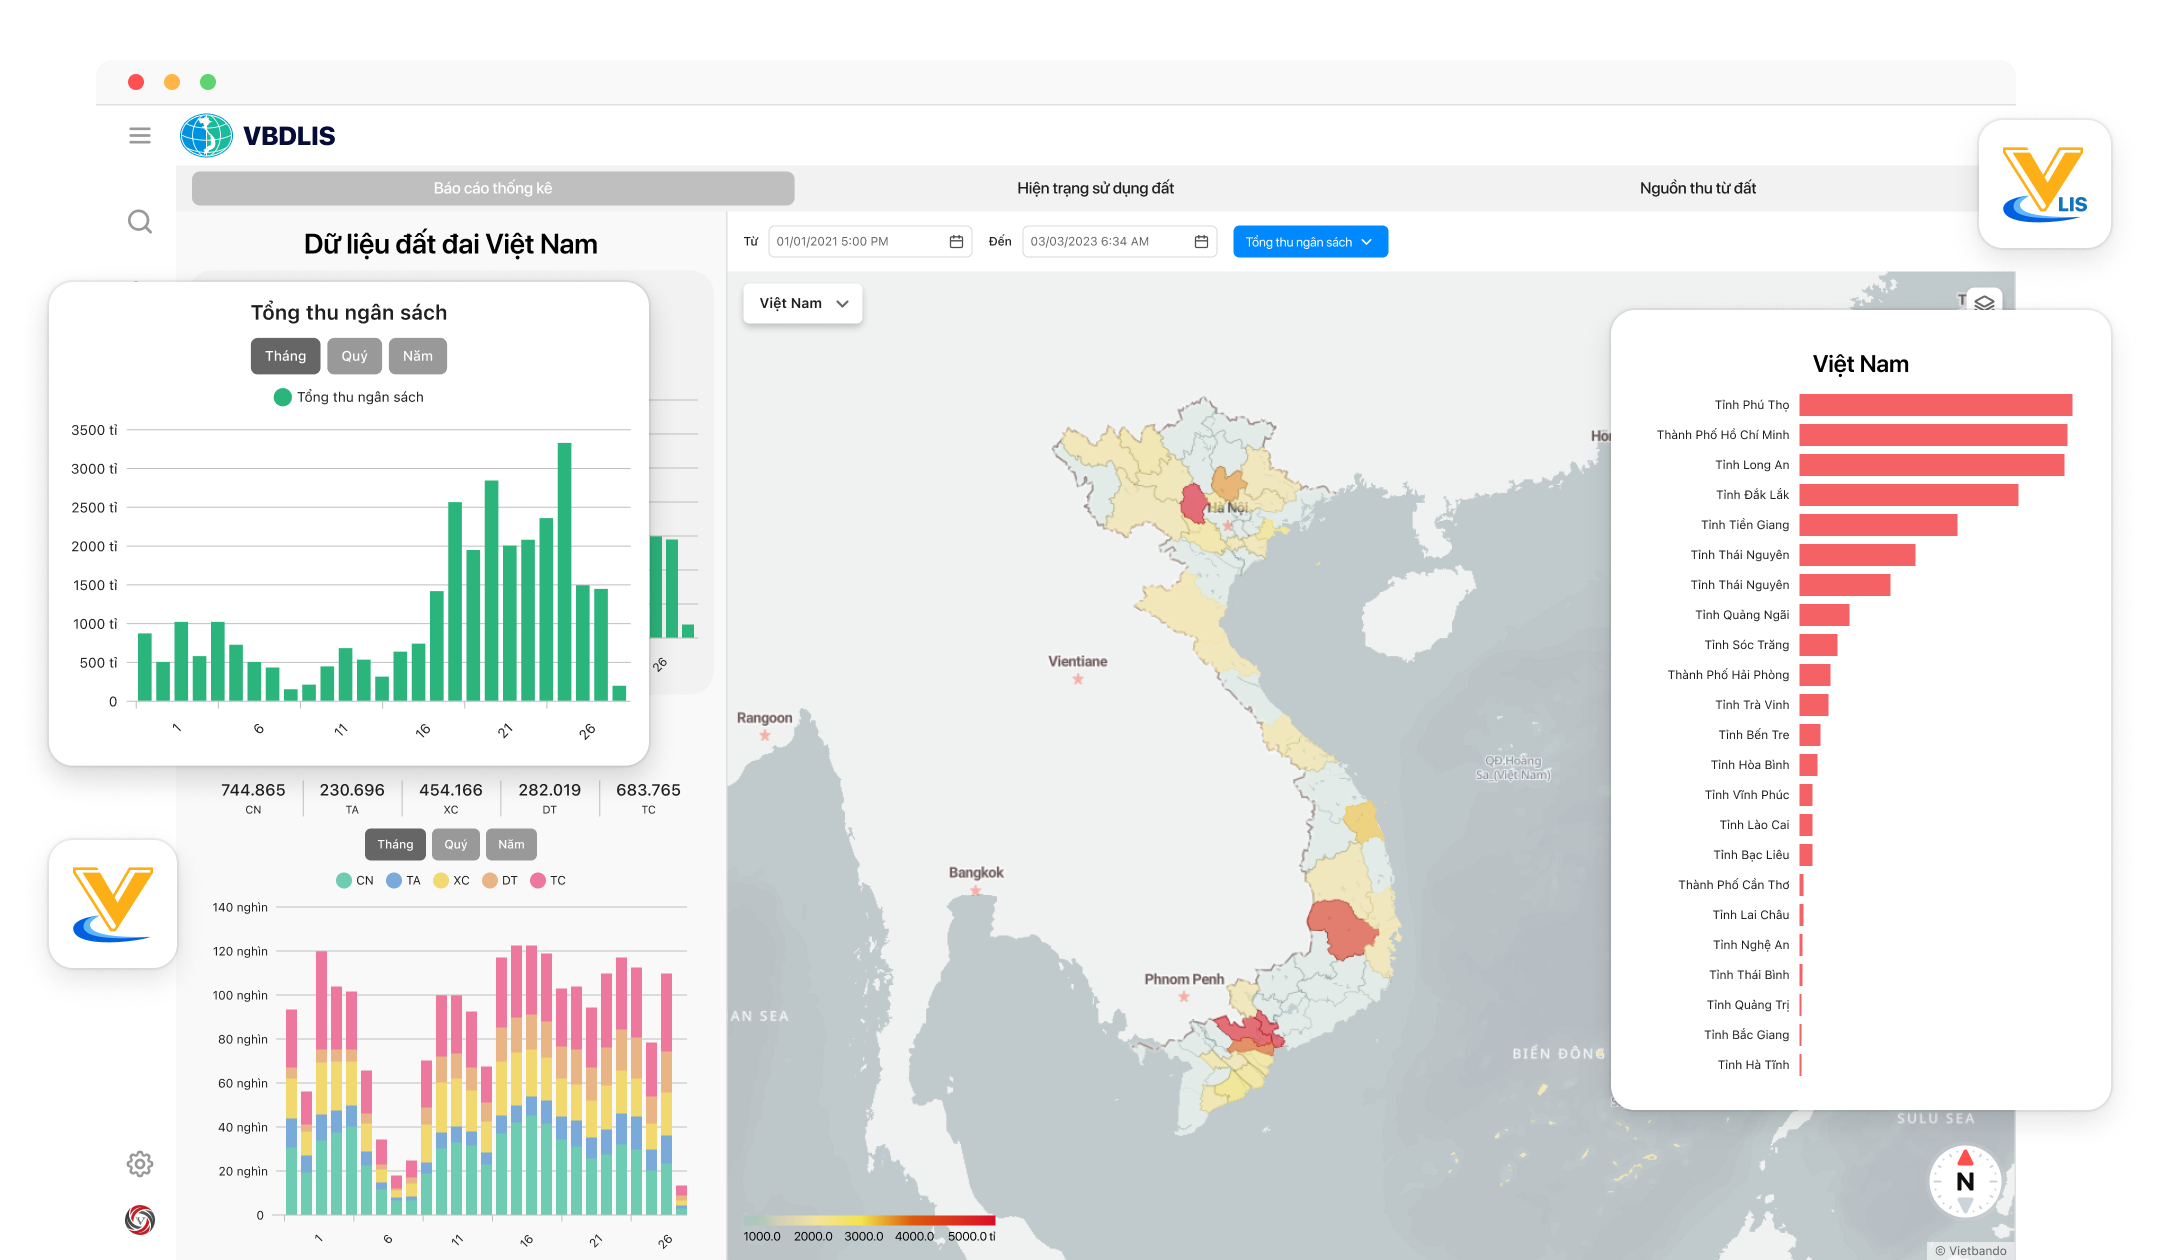
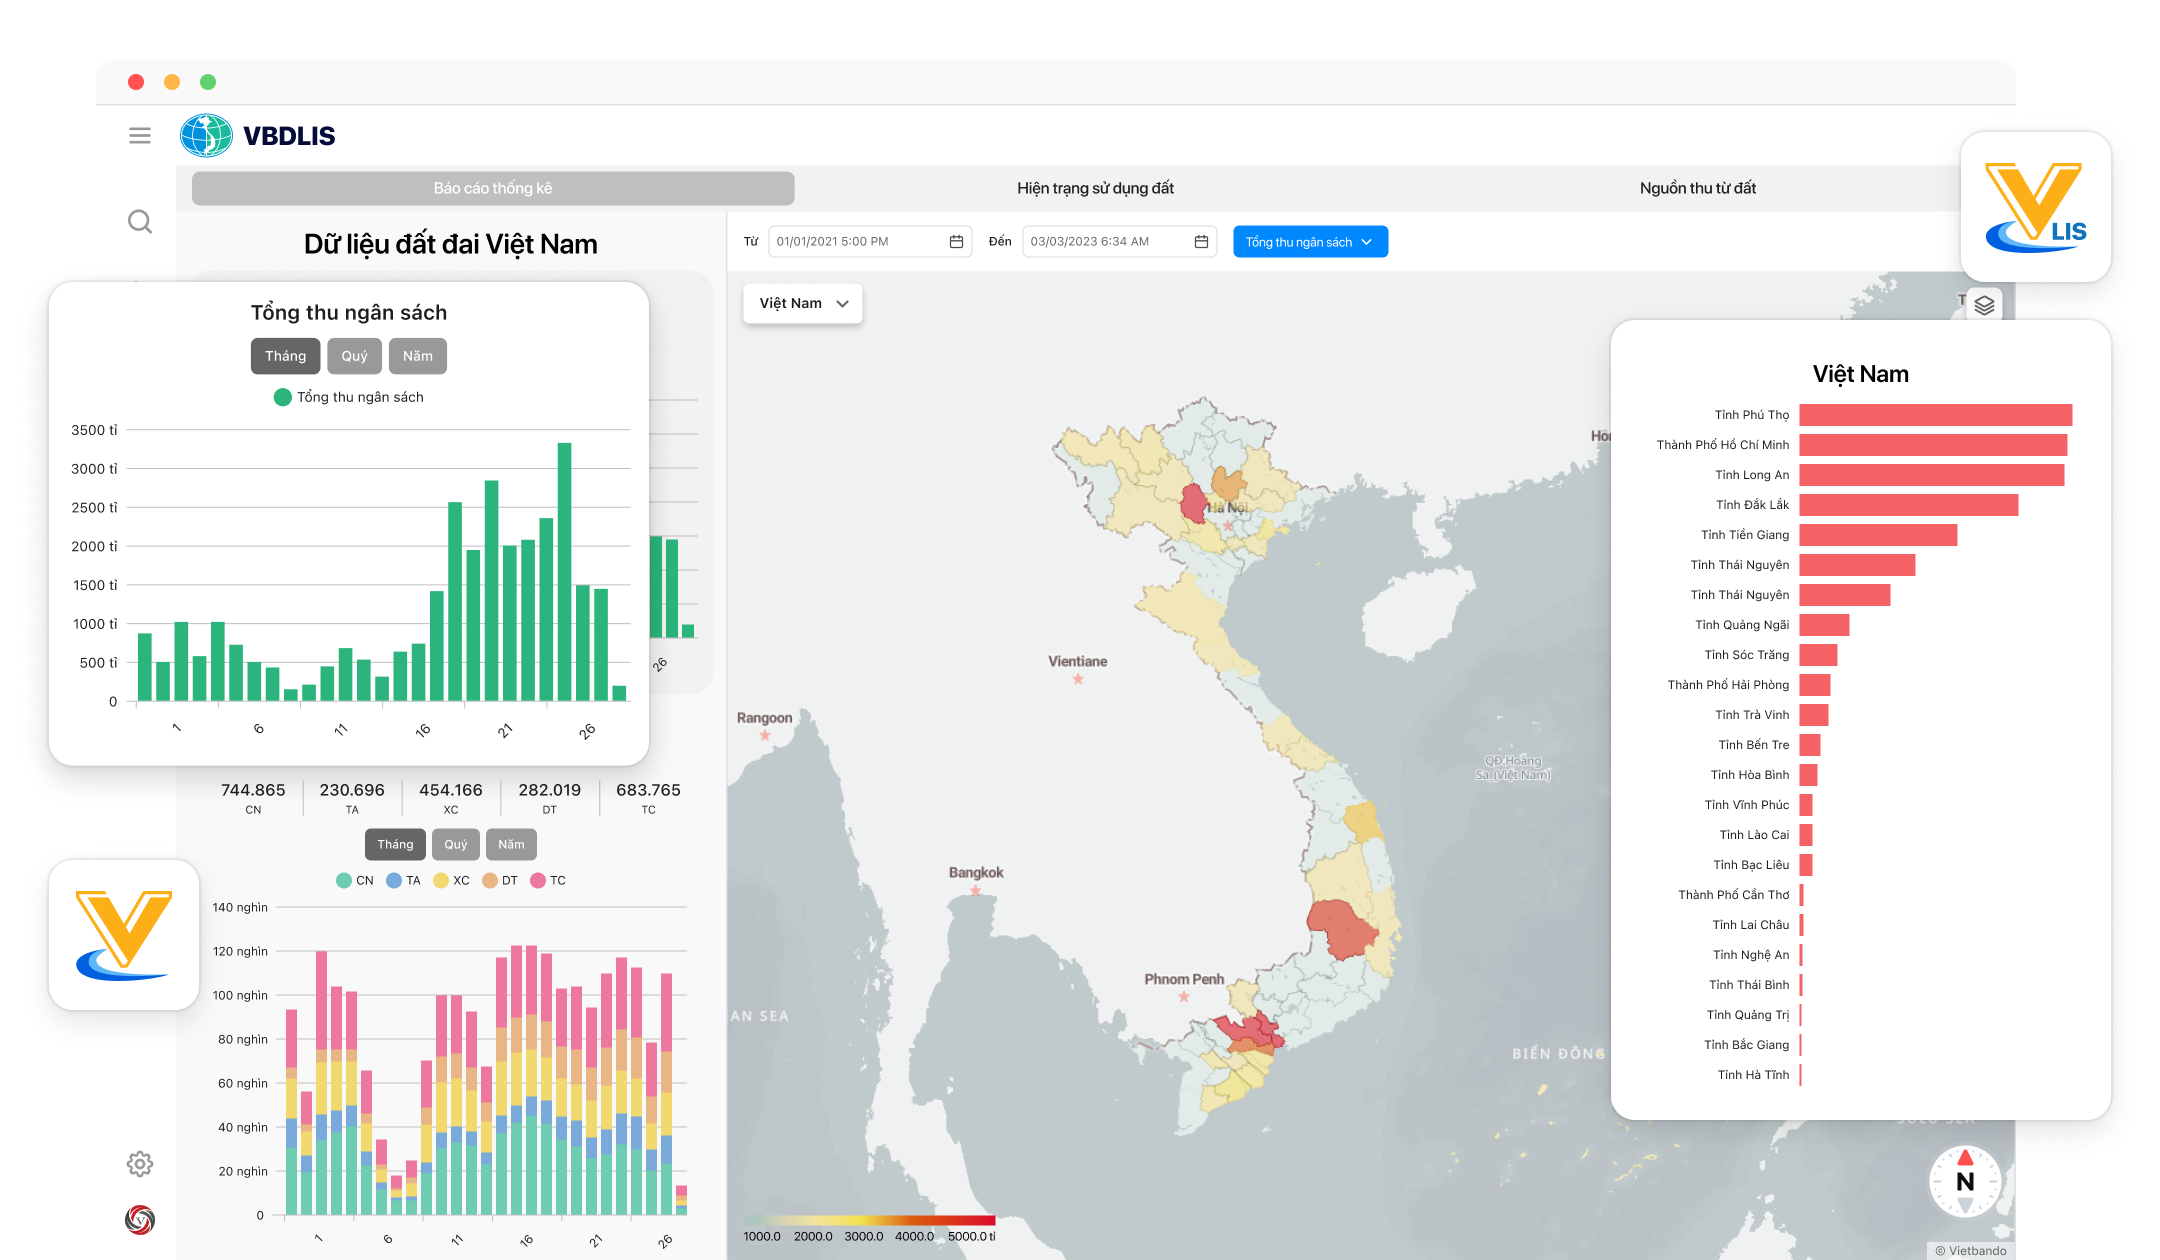
update-images

Changed region(s): [[0.7444, 0.2476, 0.9616, 0.8976], [0.8995, 0.0929, 0.9616, 0.2476], [0.031, 0.681, 0.0931, 0.8048]]

diff --git a/src/pages/Application/ConstructorApp.js b/src/pages/Application/ConstructorApp.js
@@ -100,7 +100,7 @@ const ConstructorApp = () => {
                 </Button>            
               </Link>             
             </div>
-            <img className='app-hero-image' width={'1200px'} height={'auto'} src={'./../content/img/app-hero-images-1.png'} alt="aaa" />
+            <img className='app-hero-image' width={'1200px'} height={'auto'} src={'./../content/img/app-hero-images-2.png'} alt="aaa" />
           </div>
         </div>
 
